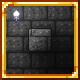
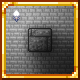
Update to v0.9.1

diff --git a/ModCompatibility/LightsCompatibility.cs b/ModCompatibility/LightsCompatibility.cs
@@ -1,0 +1,188 @@
+using System;
+using System.Reflection;
+using FancyLighting.Utils;
+using Microsoft.Xna.Framework;
+using Microsoft.Xna.Framework.Graphics;
+using MonoMod.RuntimeDetour;
+using Terraria;
+using Terraria.ModLoader;
+
+namespace FancyLighting.ModCompatibility;
+
+internal static class LightsCompatibility
+{
+    private static Hook _hook_NewScreenTarget;
+    private static Hook _hook_UseLightAndShadow;
+    private static Hook _hook_UseBloom;
+
+    private static RenderTarget2D _lightsTarget1;
+    private static RenderTarget2D _lightsTarget2;
+
+    internal static void Load()
+    {
+        if (!ModLoader.HasMod("Lights"))
+        {
+            return;
+        }
+
+        var modClass = ModLoader.GetMod("Lights").GetType();
+        MethodInfo detourMethod;
+
+        detourMethod = modClass.GetMethod(
+            "NewScreenTarget",
+            BindingFlags.Public | BindingFlags.Instance
+        );
+        if (detourMethod is not null)
+        {
+            try
+            {
+                _hook_NewScreenTarget = new(detourMethod, _NewScreenTarget, true);
+            }
+            catch (ArgumentException)
+            {
+                // Unable to add the hook
+            }
+        }
+
+        detourMethod = modClass.GetMethod(
+            "UseLightAndShadow",
+            BindingFlags.NonPublic | BindingFlags.Instance
+        );
+        if (detourMethod is not null)
+        {
+            try
+            {
+                _hook_UseLightAndShadow = new(detourMethod, _UseLightAndShadow, true);
+            }
+            catch (ArgumentException)
+            {
+                // Unable to add the hook
+            }
+        }
+
+        detourMethod = modClass.GetMethod(
+            "UseBloom",
+            BindingFlags.NonPublic | BindingFlags.Instance
+        );
+        if (detourMethod is not null)
+        {
+            try
+            {
+                _hook_UseBloom = new(detourMethod, _UseBloom, true);
+            }
+            catch (ArgumentException)
+            {
+                // Unable to add the hook
+            }
+        }
+    }
+
+    internal static void Unload()
+    {
+        _hook_NewScreenTarget?.Dispose();
+        _hook_UseLightAndShadow?.Dispose();
+        _hook_UseBloom?.Dispose();
+
+        Main.QueueMainThreadAction(() =>
+        {
+            _lightsTarget1?.Dispose();
+            _lightsTarget2?.Dispose();
+        });
+    }
+
+    private delegate void orig_NewScreenTarget(object self);
+
+    private static void _NewScreenTarget(orig_NewScreenTarget orig, object self)
+    {
+        if (FancyLightingModSystem._hiDef)
+        {
+            return;
+        }
+
+        orig(self);
+    }
+
+    private delegate void orig_UseLightAndShadow(
+        object self,
+        GraphicsDevice gd,
+        SpriteBatch sb,
+        RenderTarget2D rt1,
+        RenderTarget2D rt2
+    );
+
+    private static void _UseLightAndShadow(
+        orig_UseLightAndShadow orig,
+        object self,
+        GraphicsDevice gd,
+        SpriteBatch sb,
+        RenderTarget2D rt1,
+        RenderTarget2D rt2
+    )
+    {
+        if (!FancyLightingModSystem._hiDef)
+        {
+            orig(self, gd, sb, rt1, rt2);
+            return;
+        }
+
+        TextureUtils.MakeSize(
+            ref _lightsTarget1,
+            rt1.Width,
+            rt1.Height,
+            SurfaceFormat.Color,
+            RenderTargetUsage.PreserveContents
+        );
+        TextureUtils.MakeSize(
+            ref _lightsTarget2,
+            rt1.Width,
+            rt1.Height,
+            SurfaceFormat.Color
+        );
+
+        gd.SetRenderTarget(_lightsTarget1);
+        sb.Begin(
+            SpriteSortMode.Deferred,
+            BlendState.Opaque,
+            SamplerState.PointClamp,
+            DepthStencilState.None,
+            RasterizerState.CullNone
+        );
+        sb.Draw(rt1, Vector2.Zero, Color.White);
+        sb.End();
+        orig(self, gd, sb, _lightsTarget1, _lightsTarget2);
+        gd.SetRenderTarget(rt1);
+        sb.Begin(
+            SpriteSortMode.Deferred,
+            BlendState.Opaque,
+            SamplerState.PointClamp,
+            DepthStencilState.None,
+            RasterizerState.CullNone
+        );
+        sb.Draw(_lightsTarget1, Vector2.Zero, Color.White);
+        sb.End();
+    }
+
+    private delegate void orig_UseBloom(
+        object self,
+        GraphicsDevice graphicsDevice,
+        RenderTarget2D rt1,
+        RenderTarget2D rt2
+    );
+
+    private static void _UseBloom(
+        orig_UseBloom orig,
+        object self,
+        GraphicsDevice graphicsDevice,
+        RenderTarget2D rt1,
+        RenderTarget2D rt2
+    )
+    {
+        if (FancyLightingModSystem._hiDef)
+        {
+            // Use the included bloom effect instead
+            return;
+        }
+
+        orig(self, graphicsDevice, rt1, rt2);
+    }
+}

diff --git a/Utils/TextureUtils.cs b/Utils/TextureUtils.cs
@@ -12,14 +12,24 @@ internal static class TextureUtils
             ? SurfaceFormat.HalfVector4
             : SurfaceFormat.Color;
 
-    public static void MakeSize(ref RenderTarget2D target, int width, int height)
+    public static void MakeSize(
+        ref RenderTarget2D target,
+        int width,
+        int height,
+        SurfaceFormat? format = null,
+        RenderTargetUsage? usage = null
+    )
     {
+        format ??= TextureSurfaceFormat;
+        usage ??= RenderTargetUsage.DiscardContents;
+
         if (
             target is null
             || target.GraphicsDevice != Main.graphics.GraphicsDevice
             || target.Width != width
             || target.Height != height
-            || target.Format != TextureSurfaceFormat
+            || target.Format != format
+            || target.RenderTargetUsage != usage
         )
         {
             target?.Dispose();
@@ -28,8 +38,10 @@ internal static class TextureUtils
                 width,
                 height,
                 false,
-                TextureSurfaceFormat,
-                DepthFormat.None
+                format.Value,
+                DepthFormat.None,
+                0,
+                usage.Value
             );
         }
     }
@@ -101,7 +113,7 @@ internal static class TextureUtils
         var mipMap = target.LevelCount > 1;
         var depthStencilFormat = target.DepthStencilFormat;
         var multisampleCount = target.MultiSampleCount;
-        var renderTargetUsage = target.RenderTargetUsage;
+        var usage = target.RenderTargetUsage;
         target.Dispose();
         target = new RenderTarget2D(
             Main.graphics.GraphicsDevice,
@@ -111,7 +123,7 @@ internal static class TextureUtils
             format,
             depthStencilFormat,
             multisampleCount,
-            renderTargetUsage
+            usage
         );
     }
 }

diff --git a/FancyLightingMod.cs b/FancyLightingMod.cs
@@ -4,6 +4,7 @@ using System.Reflection;
 using FancyLighting.Config;
 using FancyLighting.Config.Enums;
 using FancyLighting.LightingEngines;
+using FancyLighting.ModCompatibility;
 using FancyLighting.Utils;
 using Microsoft.Xna.Framework;
 using Microsoft.Xna.Framework.Graphics;
@@ -331,6 +332,8 @@ public sealed class FancyLightingMod : Mod
 
         AddHooks();
         SkyColors.AddSkyColorsHooks();
+
+        LightsCompatibility.Load();
     }
 
     public override void Unload()
@@ -356,6 +359,8 @@ public sealed class FancyLightingMod : Mod
 
             FancyLightingModSystem.EnsureRenderTargets(true);
         });
+
+        LightsCompatibility.Unload();
 
         base.Unload();
     }

diff --git a/README.md b/README.md
@@ -9,16 +9,6 @@ This mod is not endorsed by the creators of either Terraria or tModLoader.
 
 ## Latest Version
 
-**v0.9.0 (2024-11-21)**
-- Overhauled HDR rendering (previously called overbright lighting)
-- Removed the extreme preset and the settings to apply overbright lighting to different objects, which are now effectively always enabled
-- Removed the setting to enable enhanced shaders and colors, which is now included in the enhanced HDR render mode
-- Removed the setting to enable light map tone mapping, which is now included in the bicubic and basic HDR render modes
-- Added HDR-to-SDR tone mapping
-- Added bloom (available in the enhanced HDR render mode)
-- Removed the option to disable smooth lighting glow mask support
-- The spelunker, dangersense, and biome sight potions no longer use a custom glow effect
-- Slightly reduced the strength of simulated normal maps on translucent surfaces
-- Fixed a visual issue that sometimes caused water to appear black
-- Made some minor optimizations
+**v0.9.1 (2024-11-21)**
+- Fixed compability with Lights and Shadows when using the enhanced HDR render mode
 - Updated the mod icon
